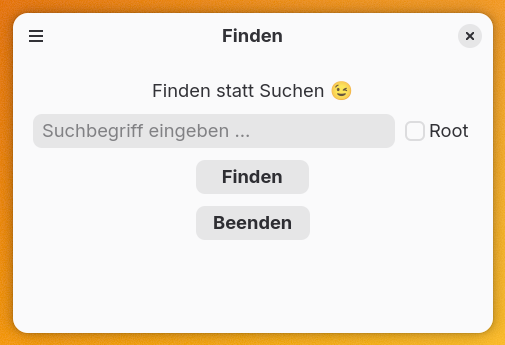
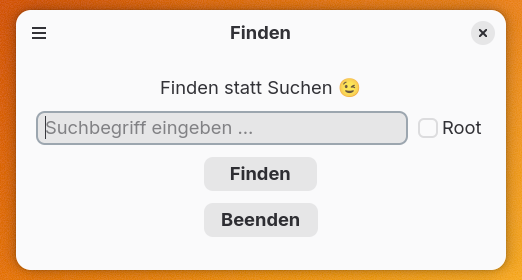
try things with the About Dialog

diff --git a/src/main.c b/src/main.c
@@ -107,10 +107,15 @@ static void show_about (GSimpleAction *action, GVariant *parameter, gpointer use
 //    adw_about_dialog_set_translator_credits (about, "toq: deutsch\n toq: englisch");
     adw_about_dialog_set_application_icon (about, "free.toq.finden");   //IconName
 
-    /* Dialog modal zum aktiven Fenster zeigen */
-    GtkWindow *parent = gtk_application_get_active_window (GTK_APPLICATION (app));
-    adw_dialog_present (ADW_DIALOG (about), GTK_WIDGET (parent));
+        /* Dialog innerhalb (modal) zum aktiven Fenster zeigen */
+//      adw_dialog_present (ADW_DIALOG (about), NULL);
+
+        /* Dialog innerhalb (modal) zum aktiven Fenster zeigen */
+//    GtkWindow *parent = gtk_application_get_active_window (GTK_APPLICATION (app));
+//    adw_dialog_present (ADW_DIALOG (about), GTK_WIDGET (parent));
+
 }
+
 /* ----- Callback Beenden-Button ----- */
 static void on_quitbtn_clicked (GtkButton *button, gpointer user_data)
 {
@@ -300,7 +305,7 @@ static void on_activate (AdwApplication *app, gpointer)
     AdwApplicationWindow *win = ADW_APPLICATION_WINDOW (adw_application_window_new (GTK_APPLICATION (app))); 
 
     gtk_window_set_title (GTK_WINDOW(win), "Finden");   // Fenstertitel
-    gtk_window_set_default_size (GTK_WINDOW(win), 480, 320);  // Standard-Fenstergröße
+    gtk_window_set_default_size (GTK_WINDOW(win), 490, 260);  // Standard-Fenstergröße
     gtk_window_present (GTK_WINDOW(win));                     // Fenster anzeigen lassen
 
     /* ----- ToolbarView (Root‑Widget) erstellt und als Inhalt des Fensters festgelegt -- */
